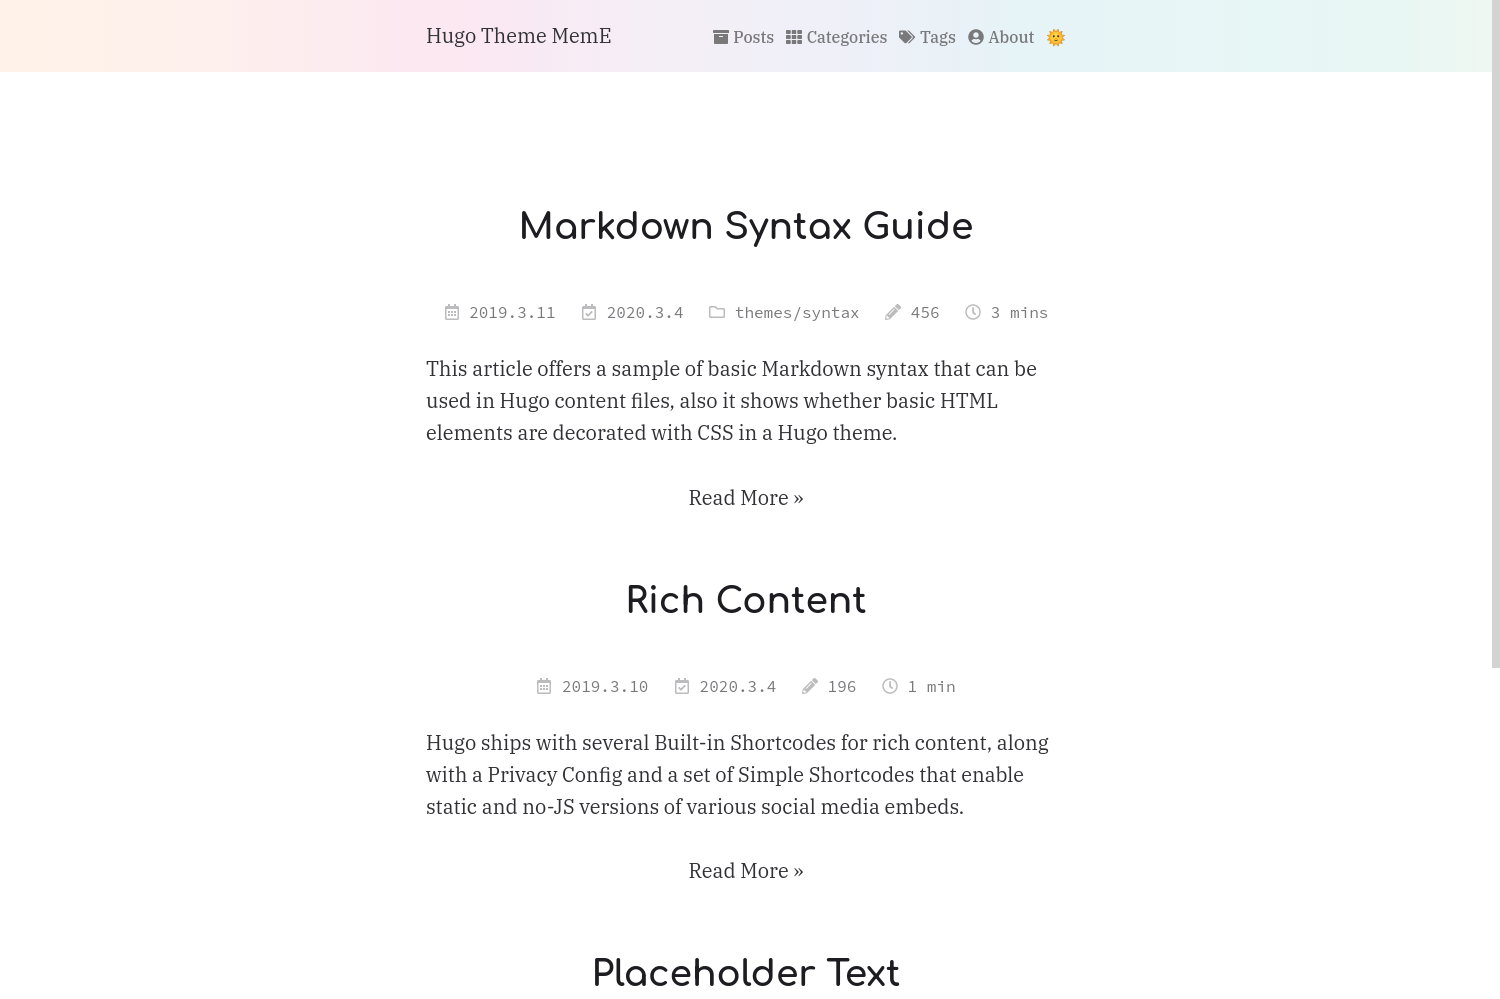
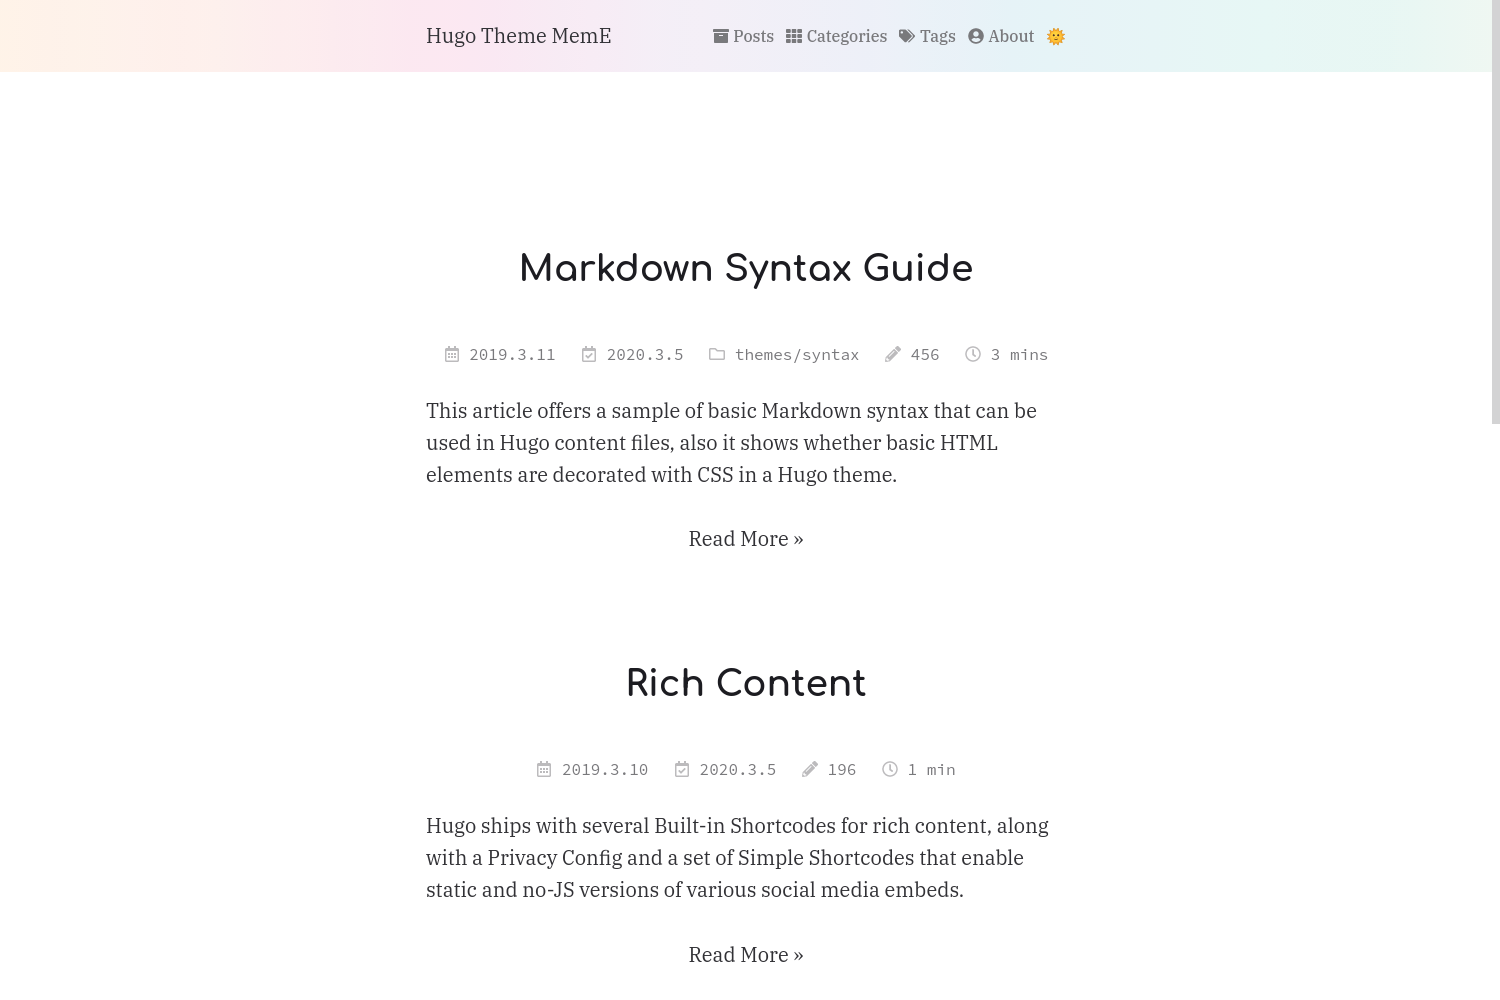
perf: replace `calc()` with `rem`
...this commit also fix style of home-posts page

diff --git a/assets/scss/layout/_single.scss b/assets/scss/layout/_single.scss
@@ -15,7 +15,7 @@
 
 .post-description {
     text-align: center;
-    margin: var(--font-size) 0;
+    margin: 1rem 0;
     font-size: 90%;
 }
 
@@ -33,7 +33,7 @@
 .post {
     p {
         margin: 0 0 1em;
-        line-height: var(--line-height);
+        line-height: $lineHeight;
     }
     img {
         display: block;
@@ -57,7 +57,7 @@
     }
     ol, ul {
         padding-left: 2em;
-        line-height: var(--line-height);
+        line-height: $lineHeight;
     }
     hr {
         border: none;
@@ -86,10 +86,10 @@ blockquote {
 
 .drop-cap {
     float: left;
-    font-size: calc(var(--font-size) * 3);
-    margin-right: calc(calc(var(--line-height) * var(--font-size)) - var(--font-size));
-    margin-top: calc(var(--font-size) / var(--line-height));
-    line-height: calc(var(--line-height) * var(--font-size));
+    font-size: $fontSize * 3;
+    margin-right: $lineHeight * $fontSize - $fontSize;
+    margin-top: $fontSize / $lineHeight;
+    line-height: $lineHeight * $fontSize;
 }
 
 .caption {
@@ -116,7 +116,7 @@ ol, ul {
 
 .footnotes {
     font-size: 90%;
-    margin-top: calc(var(--font-size) * 5);
+    margin-top: 5rem;
     hr {
         margin: 0;
         height: 1px;
@@ -127,8 +127,8 @@ ol, ul {
         }
     }
     ol {
-        margin: calc(var(--font-size) * 1.618) 0 0 !important;
-        padding: 0 var(--font-size) 0 calc(var(--font-size) * 2) !important;
+        margin: 1.618rem 0 0 !important;
+        padding: 0 1rem 0 2rem !important;
     }
 }
 
@@ -203,14 +203,14 @@ dd {
 }
 
 code {
-    padding: calc(var(--font-size) / 8) calc(var(--font-size) / 4);
+    padding: ($fontSize / 8) ($fontSize / 4);
     background-color: var(--color-contrast-lower);
     font-size: 80%;
 }
 pre {
     overflow: auto hidden;
-    font-size: calc(var(--font-size) * 0.8);
-    margin: calc(var(--font-size) * 2) 0;
+    font-size: 0.8rem;
+    margin: 2rem 0;
     padding: 1em;
     line-height: 1.618;
     background-color: alpha(var(--color-contrast-lower), 0.75);

diff --git a/assets/scss/base/_base.scss b/assets/scss/base/_base.scss
@@ -2,10 +2,10 @@ html, body {
     margin: 0;
     width: 100%;
     height: 100%;
+    font-size: $fontSize;
 }
 
 body {
-    font-size: var(--font-size);
     tab-size: $tabSize;
     color: var(--color-contrast-high);
     background-color: var(--color-bg);
@@ -87,8 +87,8 @@ a {
 }
 
 ::-webkit-scrollbar {
-    width: calc(var(--font-size) * 0.4);
-    height: calc(var(--font-size) * 0.2);
+    width: 0.4rem;
+    height: 0.2rem;
 }
 ::-webkit-scrollbar-track {
     background-color: var(--color-bg);

diff --git a/assets/scss/layout/_list.scss b/assets/scss/layout/_list.scss
@@ -55,13 +55,13 @@
         position: absolute;
         left: 0.618em;
         top: 0.618em;
-        width: calc(var(--font-size) / 3);
-        height: calc(var(--font-size) / 3);
+        width: $fontSize / 3;
+        height: $fontSize / 3;
         background: var(--color-contrast-low);
         border-radius: 50%;
         border: 1px solid var(--color-bg);
         transition: background $duration;
-        font-size: var(--font-size);
+        font-size: 1rem;
     }
 }
 .list-item-title {

diff --git a/assets/scss/components/_post-meta.scss b/assets/scss/components/_post-meta.scss
@@ -2,7 +2,7 @@
     color: var(--color-contrast-medium);
     font-size: 80%;
     text-align: center;
-    margin: var(--font-size) 0;
+    margin: 1rem 0;
     a {
         color: var(--color-contrast-medium);
         &:hover {
@@ -13,7 +13,7 @@
 
 .home {
     .post-meta {
-        margin: var(--font-size) 0;
+        margin: 1rem 0;
     }
 }
 

diff --git a/assets/scss/main.scss b/assets/scss/main.scss
@@ -38,7 +38,6 @@
 
 // Utilities
 
-@import "utils/variables";
 @import "utils/functions";
 @import "utils/mixins";
 
@@ -99,7 +98,7 @@
 
     // Magic adjustment for zh-cn
     .drop-cap {
-        margin-top: var(--font-size) !important;
+        margin-top: 1rem !important;
     }
 {{ end }}
 

diff --git a/assets/scss/pages/_home-posts.scss b/assets/scss/pages/_home-posts.scss
@@ -1,9 +1,13 @@
+article.content.post.home {
+    margin-top: 5em;
+}
+
 .summary-title-link {
     color: var(--color-contrast-higher);
 }
 
 .summary {
-    line-height: var(--line-height);
+    line-height: $lineHeight;
     display: block;
 }
 

diff --git a/assets/scss/components/_post-gitinfo.scss b/assets/scss/components/_post-gitinfo.scss
@@ -1,6 +1,6 @@
 .post-gitinfo {
     font-size: 70%;
-    margin-top: calc(var(--font-size) * 5);
+    margin-top: 5rem;
     display: flex;
     justify-content: space-between;
     color: alpha(var(--color-contrast-medium), 0.8);

diff --git a/assets/scss/base/_indent.scss b/assets/scss/base/_indent.scss
@@ -23,7 +23,7 @@
             margin: 1em 0;
         }
         pre, .highlight {
-            margin: var(--font-size) 0;
+            margin: 1rem 0;
         }
         h1, h2, h3, h4, h5, h6 {
             text-align: center;

diff --git a/assets/scss/components/_post-share.scss b/assets/scss/components/_post-share.scss
@@ -1,5 +1,5 @@
 .post-share {
-    margin-top: calc(var(--font-size) * 5);
+    margin-top: 5rem;
     color: alpha(var(--color-contrast-medium), 0.8);
     a {
         color: alpha(var(--color-contrast-medium), 0.8);

diff --git a/assets/scss/components/_minimal-footer-about.scss b/assets/scss/components/_minimal-footer-about.scss
@@ -1,6 +1,6 @@
 .minimal-footer-about {
     font-size: 80%;
-    margin-top: calc(var(--font-size) * 5);
+    margin-top: 5rem;
     display: flex;
     justify-content: space-between;
     align-items: baseline;

diff --git a/assets/scss/components/_minimal-footer.scss b/assets/scss/components/_minimal-footer.scss
@@ -1,6 +1,6 @@
 .minimal-footer {
     font-size: 80%;
-    margin-top: calc(var(--font-size) * 5);
+    margin-top: 5rem;
     display: flex;
     justify-content: space-between;
     align-items: baseline;

diff --git a/assets/scss/components/_highlight.scss b/assets/scss/components/_highlight.scss
@@ -1,6 +1,6 @@
 .highlight {
     font-size: 0.8em;
-    margin: calc(var(--font-size) * 2) 0;
+    margin: 2rem 0;
     pre {
         margin: 0 !important;
         overflow: auto hidden;
